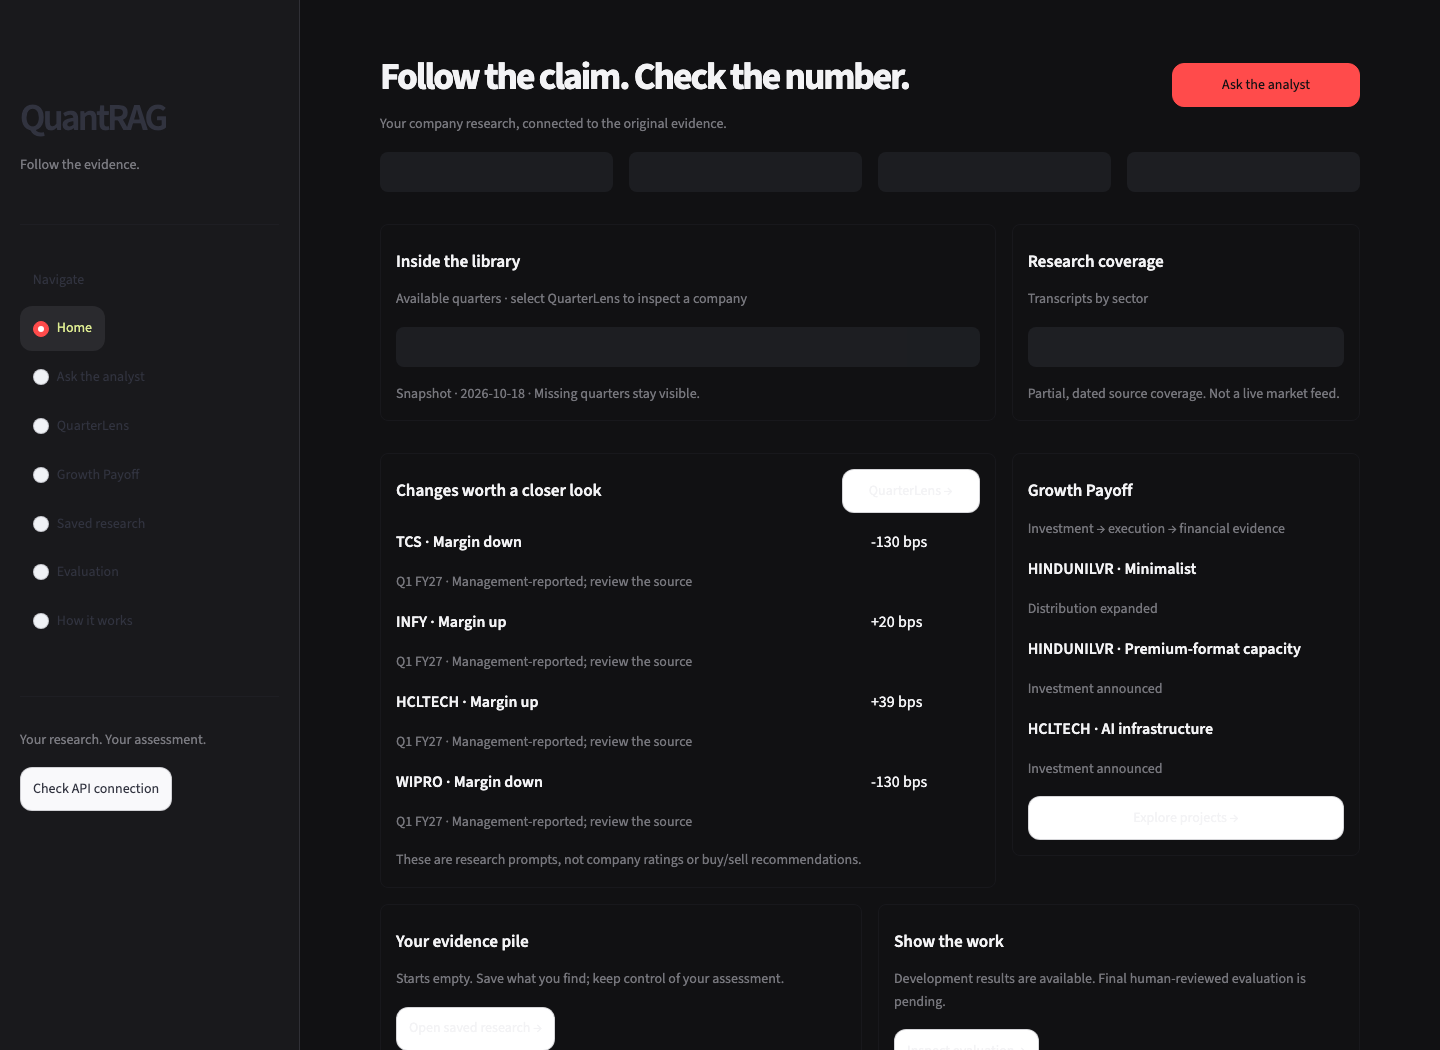
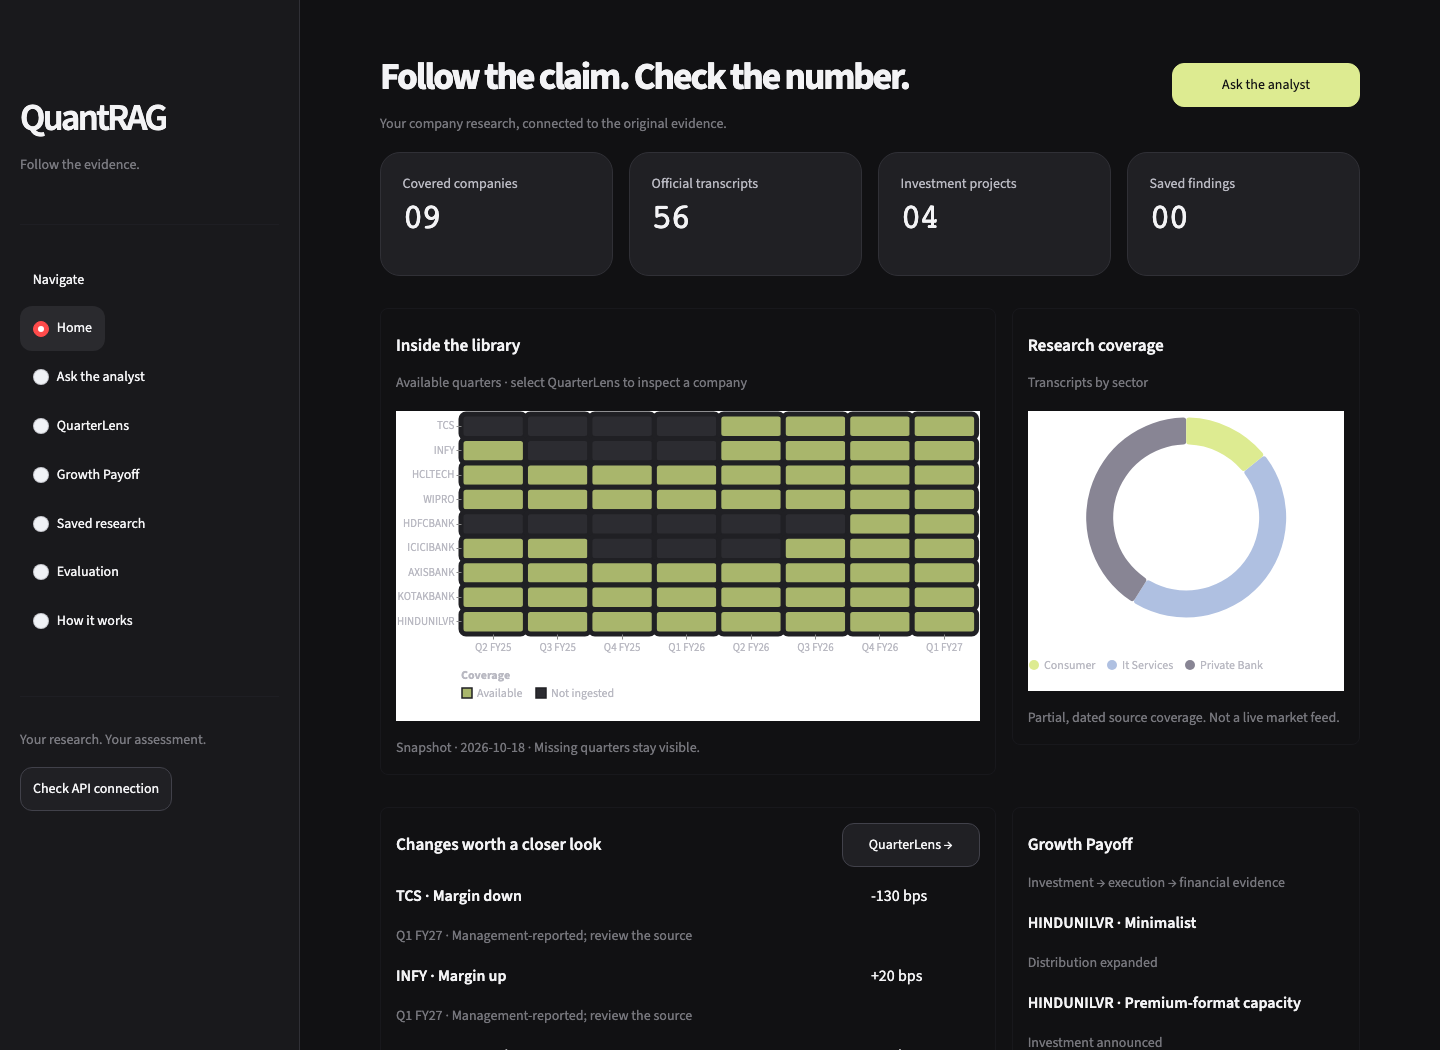
Record hosted checks and finish dashboard release styling

diff --git a/ui/presentation.py b/ui/presentation.py
@@ -51,7 +51,7 @@ def apply_design():
 
 
 def chart_style(chart):
-    return chart.configure_view(stroke=None).configure_axis(
+    return chart.properties(background='#202024').configure_view(stroke=None).configure_axis(
         labelColor=MUTED, titleColor=MUTED, gridColor='#303036', domain=False,
         labelFontSize=11, titleFontSize=11).configure_legend(labelColor=MUTED, titleColor=MUTED)
 

diff --git a/docs/verification/README.md b/docs/verification/README.md
@@ -1,0 +1,9 @@
+# Verification records
+
+- `vercel-preview-checks.json`: browser checks of the redesigned Python interface on Vercel, including the source commit.
+- `vercel-streamlit-preview.png` and `vercel-streamlit-preview-mobile.png`: the hosted Streamlit design.
+- `vercel-streamlit-answer.png`: a real cited Kotak Q1 FY27 answer from the Vercel preview; not a saved-example screen.
+- `streamlit-migration.json` and its test logs: the earlier local migration checks, before the hosted redesign. Statements about no push/deployment in that file refer to that earlier stage.
+- `streamlit-redesign-*.png`: local ASGI browser checks.
+
+Always compare a record's commit/URL with the current release. Passing HTTP checks does not establish answer faithfulness or validate financial forecasts. Final gold evaluation and blind numeric labelling remain separate work.
